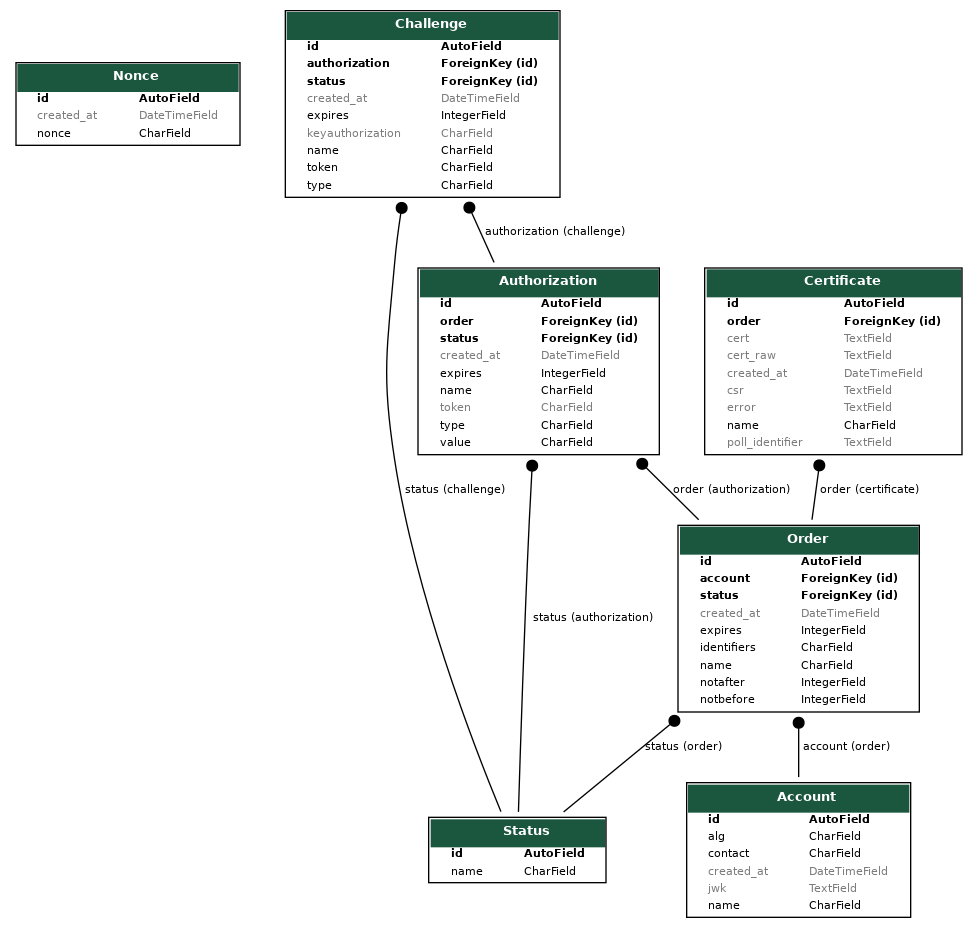
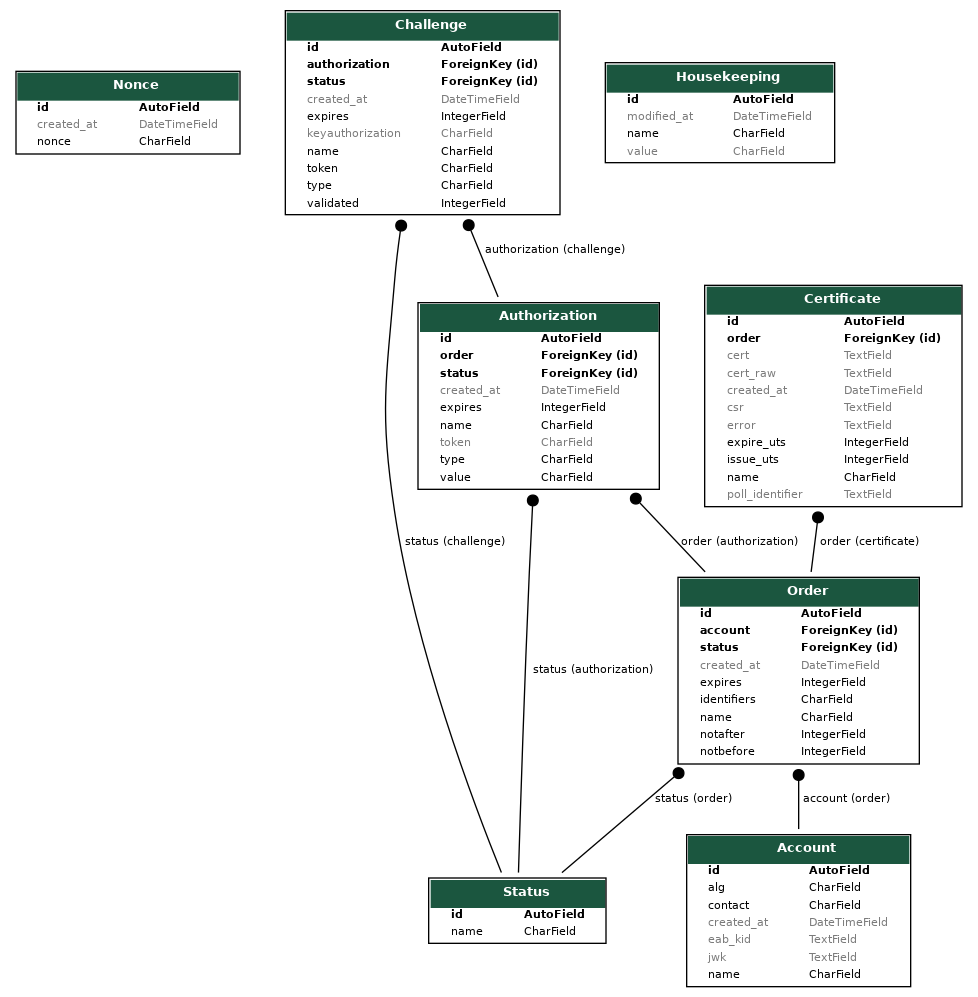
[doc] dbscheme and eab documentation

diff --git a/docs/eab.md b/docs/eab.md
@@ -8,6 +8,8 @@ To enable EAB the CA operator needs to provide both ACME client and acme2certifi
 
 kid and mac_key will be loaded into acme2certifer by using a plugin based mechanism. Two plugins will be shipped by default and are stored in the `example/eab_handler` directory.
 
+The key identifers will be part of the reports created by [Housekeeping](housekeeping.md) class.
+
 ## file_handler
 
 The eab_file_handler.py allows to load kid and mac_key from a csv-file. The handler needs to be activated in `EABhandler` section of `acme_srv.cfg`
